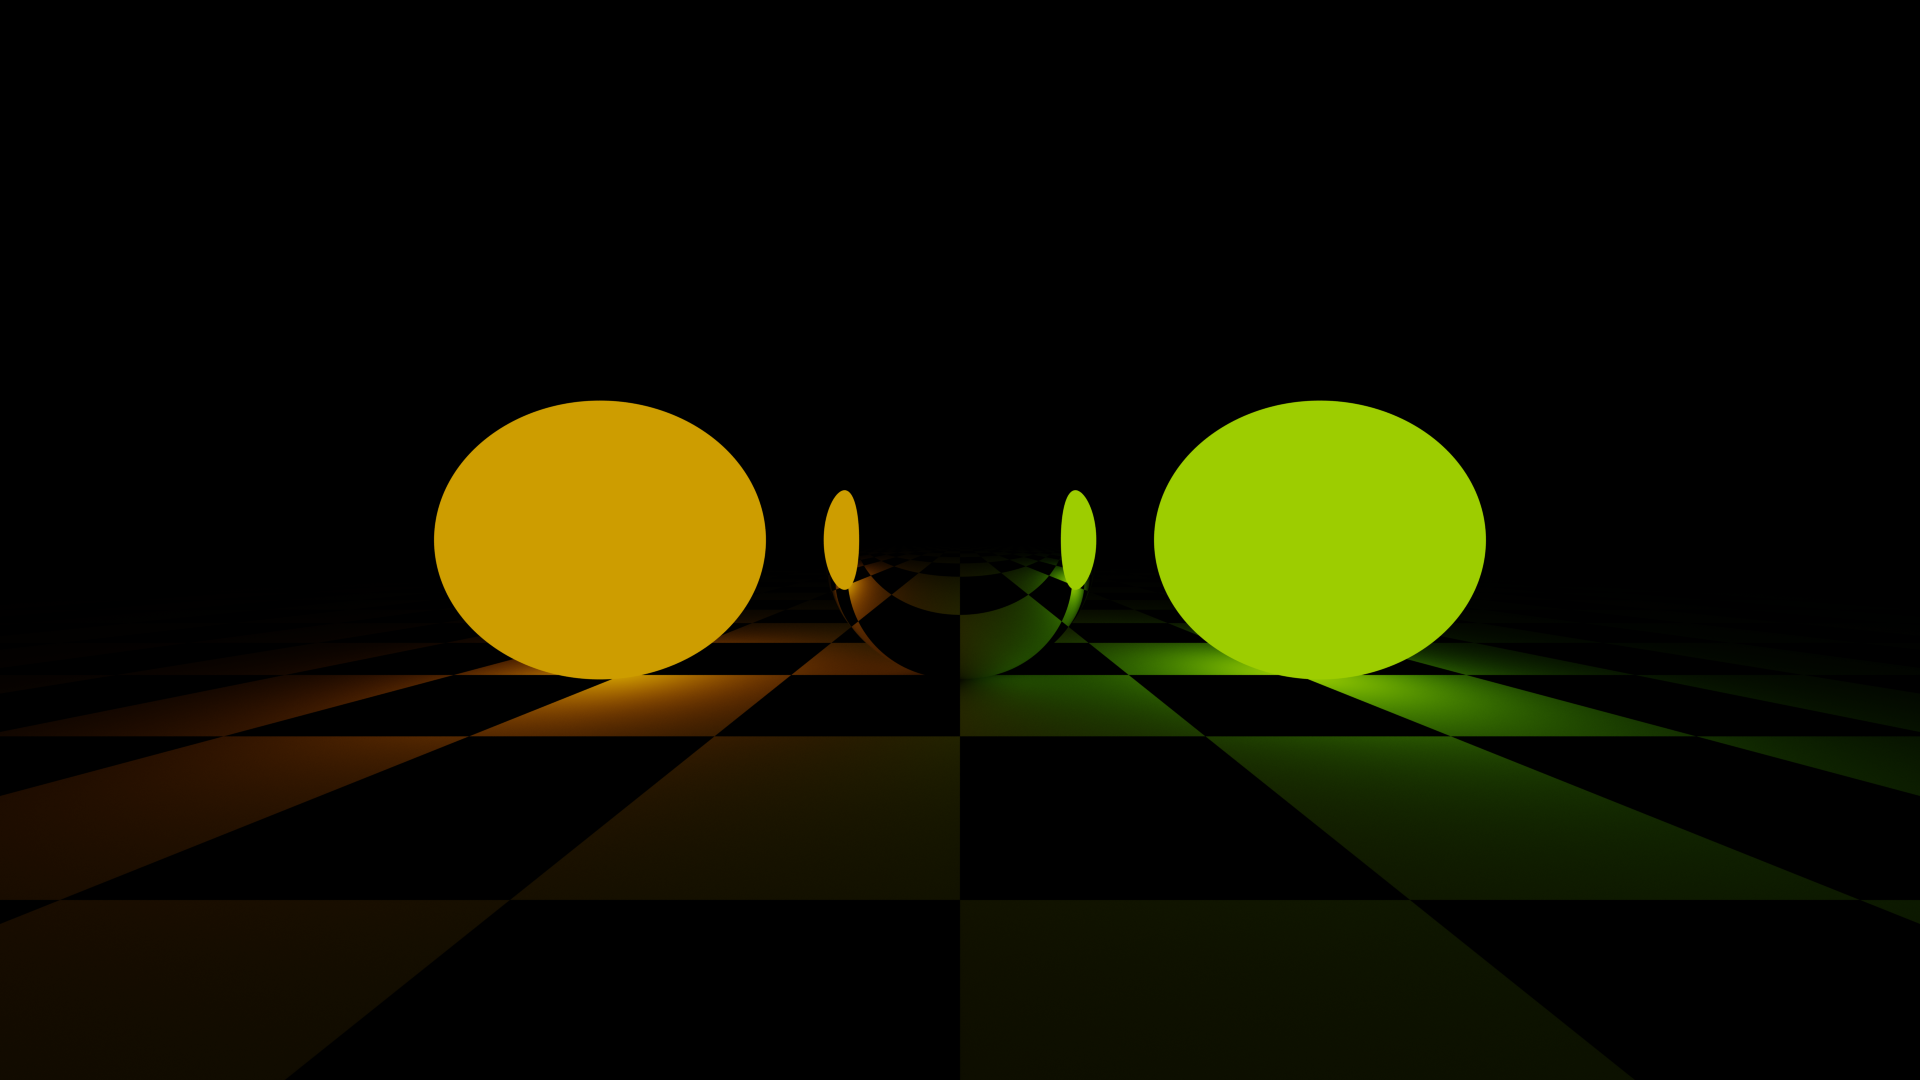
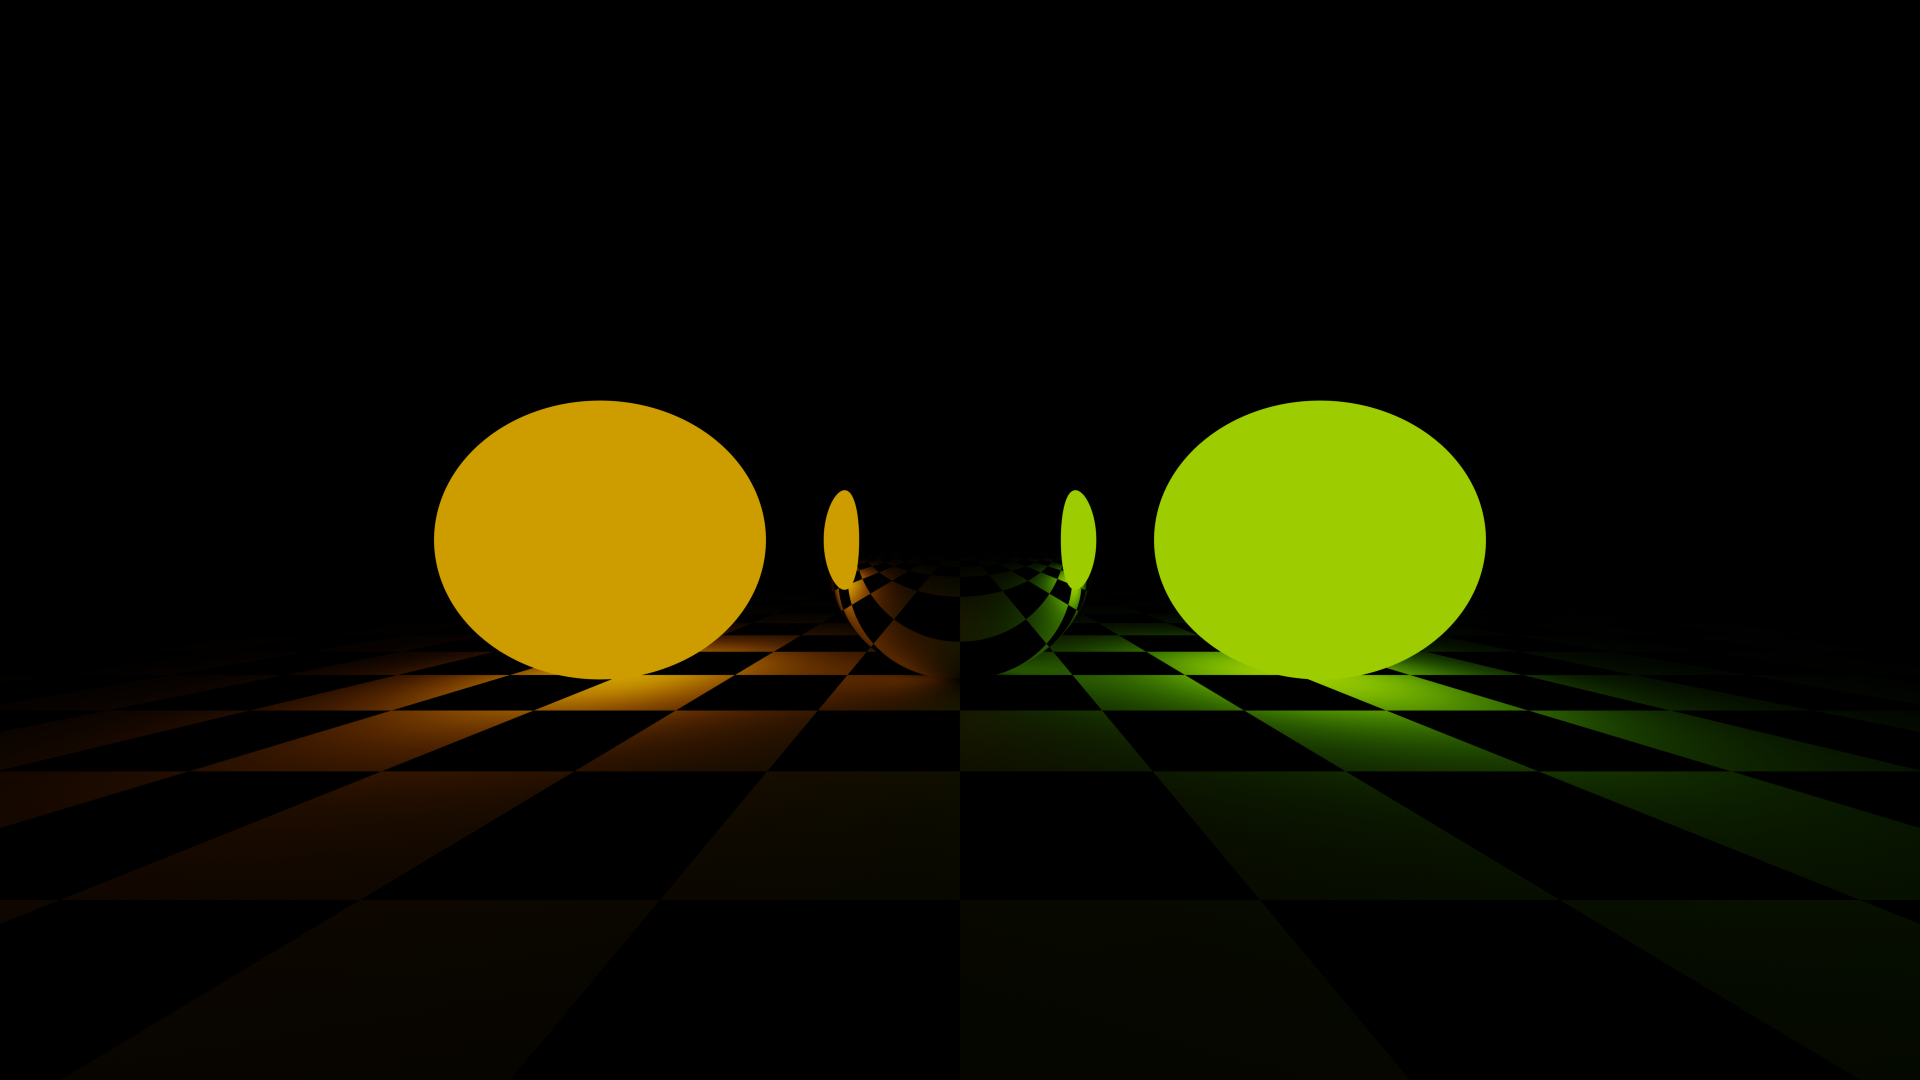
Accumulation is 50% faster

Changed region(s): [[0.0, 0.5194, 1.0, 0.8556]]

diff --git a/src/main/java/net/gavrix32/engine/graphics/Renderer.java b/src/main/java/net/gavrix32/engine/graphics/Renderer.java
@@ -10,6 +10,8 @@ import static org.lwjgl.opengl.GL15C.GL_STATIC_DRAW;
 import static org.lwjgl.opengl.GL20C.glEnableVertexAttribArray;
 import static org.lwjgl.opengl.GL20C.glVertexAttribPointer;
 import static org.lwjgl.opengl.GL30C.*;
+import static org.lwjgl.opengl.GL42C.glBindImageTexture;
+import static org.lwjgl.opengl.GL42C.glTexStorage2D;
 
 public class Renderer {
     private static final float[] VERTICES = {
@@ -23,10 +25,10 @@ public class Renderer {
             1, 2, 3
     };
     private static Shader quadShader;
-    private static int texture, frameBuffer;
     private static int accFrames = 0;
-    private static int samples = 8, bounces = 8, AASize = 0;
-    private static boolean useDenoiser = false, randNoise = false, ACESFilm = true;
+    private static int samples = 8, bounces = 4, AASize = 150;
+    private static boolean accumulation = false, randNoise = false, ACESFilm = true;
+    private static int accTexture;
 
     public static void init() {
         int vertexArray = glGenVertexArrays();
@@ -45,20 +47,11 @@ public class Renderer {
         quadShader = new Shader("shaders/main.vert", "shaders/main.frag");
         quadShader.use();
 
-        // Create texture
-        texture = glGenTextures();
-
-        // Setup texture
-        glBindTexture(GL_TEXTURE_2D, texture);
-        glTexParameteri(GL_TEXTURE_2D, GL_TEXTURE_MIN_FILTER, GL_NEAREST);
-        glTexParameteri(GL_TEXTURE_2D, GL_TEXTURE_MAG_FILTER, GL_NEAREST);
-
-        // Create framebuffer
-        frameBuffer = glGenFramebuffers();
-
-        // Setup framebuffer
-        glBindFramebuffer(GL_FRAMEBUFFER, frameBuffer);
-        glFramebufferTexture2D(GL_FRAMEBUFFER, GL_COLOR_ATTACHMENT0, GL_TEXTURE_2D, texture, 0);
+        // Accumulation
+        accTexture = glGenTextures();
+        glBindTexture(GL_TEXTURE_2D, accTexture);
+        glTexStorage2D(GL_TEXTURE_2D, 1, GL_RGBA32F, Window.getWidth(), Window.getHeight());
+        glBindTexture(GL_TEXTURE_2D, 0);
     }
 
     public static void render(Scene scene) {
@@ -89,18 +82,16 @@ public class Renderer {
             quadShader.setFloat("spheres[" + i + "].material.emission", scene.getSpheres()[i].getMaterial().getEmission());
             quadShader.setFloat("spheres[" + i + "].material.roughness", scene.getSpheres()[i].getMaterial().getRoughness());
         }
-        if (useDenoiser && accFrames > 0) {
-            glActiveTexture(GL_TEXTURE0);
-            glBindTexture(GL_TEXTURE_2D, texture);
-            glTexImage2D(GL_TEXTURE_2D, 0, GL_RGB32F, Window.getWidth(), Window.getHeight(), 0, GL_RGB, GL_UNSIGNED_BYTE, 0);
-
-            // Render to framebuffer texture
-            glBindFramebuffer(GL_FRAMEBUFFER, frameBuffer);
-            glDrawElements(GL_TRIANGLES, INDICES.length, GL_UNSIGNED_INT, 0);
+        if (accumulation) {
+            glBindImageTexture(0, accTexture, 0, false, 0, GL_READ_WRITE, GL_RGBA32F);
         }
-
-        // Render to screen
-        glBindFramebuffer(GL_FRAMEBUFFER, 0);
+        if (accFrames == 0) {
+            glDeleteTextures(accTexture);
+            accTexture = glGenTextures();
+            glBindTexture(GL_TEXTURE_2D, accTexture);
+            glTexStorage2D(GL_TEXTURE_2D, 1, GL_RGBA32F, Window.getWidth(), Window.getHeight());
+            glBindTexture(GL_TEXTURE_2D, 0);
+        }
         glDrawElements(GL_TRIANGLES, INDICES.length, GL_UNSIGNED_INT, 0);
         accFrames++;
     }
@@ -113,9 +104,9 @@ public class Renderer {
         Renderer.bounces = bounces;
     }
 
-    public static void useDenoiser(boolean value) {
+    public static void useAccumulation(boolean value) {
         if (!value) resetAccFrames();
-        useDenoiser = value;
+        accumulation = value;
     }
 
     public static void resetAccFrames() {

diff --git a/src/main/java/net/gavrix32/app/GuiRenderer.java b/src/main/java/net/gavrix32/app/GuiRenderer.java
@@ -1,0 +1,86 @@
+package net.gavrix32.app;
+
+import imgui.ImGui;
+import imgui.ImGuiIO;
+import imgui.flag.ImGuiConfigFlags;
+import imgui.gl3.ImGuiImplGl3;
+import imgui.glfw.ImGuiImplGlfw;
+import imgui.type.ImBoolean;
+import imgui.type.ImInt;
+import net.gavrix32.engine.Engine;
+import net.gavrix32.engine.Utils;
+import net.gavrix32.engine.graphics.Renderer;
+import net.gavrix32.engine.io.Sync;
+import net.gavrix32.engine.io.Window;
+
+import static org.lwjgl.glfw.GLFW.glfwGetCurrentContext;
+import static org.lwjgl.glfw.GLFW.glfwMakeContextCurrent;
+
+public class GuiRenderer {
+    private static boolean status = true;
+    private static final ImGuiImplGl3 imGuiImplGl3 = new ImGuiImplGl3();
+    private static final ImGuiImplGlfw imGuiImplGlfw = new ImGuiImplGlfw();
+
+    private static final int[]
+            samples = new int[] { 8 },
+            bounces = new int[] { 4 },
+            AASize = new int[] { 150 };
+
+    private static final ImBoolean
+            accumulation = new ImBoolean(true),
+            randNoise = new ImBoolean(false),
+            aces = new ImBoolean(true);
+
+    private static final ImInt syncType = new ImInt();
+    private static final String[] syncTypes = { "Off", "VSync", "Adaptive" };
+
+    public static void init() {
+        ImGui.createContext();
+        ImGuiIO io = ImGui.getIO();
+        io.getFonts().addFontFromMemoryTTF(Utils.loadBytes("fonts/arial.ttf"), 14);
+        imGuiImplGlfw.init(Window.get(), true);
+        imGuiImplGl3.init();
+    }
+
+    public static void update() {
+        if (status) {
+            imGuiImplGlfw.newFrame();
+            ImGui.newFrame();
+            ImGui.begin("Render");
+            ImGui.text((int) (1 / Engine.getDelta()) + " fps");
+            ImGui.text("Frametime: " + Engine.getDelta() * 1000 + " ms");
+            ImGui.combo("Sync", syncType, syncTypes);
+            switch (syncType.get()) {
+                case 0 -> Window.sync(Sync.OFF);
+                case 1 -> Window.sync(Sync.VSYNC);
+                case 2 -> Window.sync(Sync.ADAPTIVE);
+            }
+            if (ImGui.sliderInt("Samples", samples, 1, 128)) Renderer.resetAccFrames();
+            if (ImGui.sliderInt("Bounces", bounces, 1, 64)) Renderer.resetAccFrames();
+            if (ImGui.dragInt("UV Blur", AASize, 1, 0, 256000)) Renderer.resetAccFrames();
+            if (ImGui.checkbox("ACES Film", aces)) Renderer.resetAccFrames();
+            ImGui.checkbox("Accumulation", accumulation);
+            ImGui.checkbox("Random Noise", randNoise);
+            ImGui.end();
+            ImGui.render();
+            imGuiImplGl3.renderDrawData(ImGui.getDrawData());
+            if (ImGui.getIO().hasConfigFlags(ImGuiConfigFlags.ViewportsEnable)) {
+                final long backupWindowPtr = glfwGetCurrentContext();
+                ImGui.updatePlatformWindows();
+                ImGui.renderPlatformWindowsDefault();
+                glfwMakeContextCurrent(backupWindowPtr);
+            }
+            Renderer.setSamples(samples[0]);
+            Renderer.setBounces(bounces[0]);
+            Renderer.setAASize(AASize[0]);
+            Renderer.useAccumulation(accumulation.get());
+            Renderer.useRandomNoise(randNoise.get());
+            Renderer.useACESFilm(aces.get());
+        }
+
+    }
+
+    public static void toggle() {
+        status = !status;
+    }
+}

diff --git a/src/main/java/net/gavrix32/app/Main.java b/src/main/java/net/gavrix32/app/Main.java
@@ -1,36 +1,35 @@
 package net.gavrix32.app;
 
 import net.gavrix32.app.scenes.CornellBox;
+import net.gavrix32.app.scenes.RGBSpheres;
 import net.gavrix32.app.scenes.Spheres;
 import net.gavrix32.engine.Engine;
 import net.gavrix32.engine.IApplication;
 import net.gavrix32.engine.Utils;
 import net.gavrix32.engine.graphics.*;
 import net.gavrix32.engine.io.*;
-import net.gavrix32.engine.shapes.Box;
-import net.gavrix32.engine.shapes.Sphere;
 
 import java.nio.ByteBuffer;
 import java.time.LocalDateTime;
 import java.time.format.DateTimeFormatter;
 
 import static org.lwjgl.glfw.GLFW.*;
-import static org.lwjgl.opengl.GL11C.*;
-import static org.lwjgl.opengl.GL13C.*;
+import static org.lwjgl.opengl.GL46C.*;
 import static org.lwjgl.stb.STBImage.*;
 
 public class Main implements IApplication {
-
     private int texture;
     private Camera cam;
 
     @Override
     public void init() {
         Window.init("Ray Tracing", 1280, 720);
+        //GLUtil.setupDebugMessageCallback();
         glfwSetKeyCallback(Window.get(), (window, key, scancode, action, mods) -> {
-            if (key == GLFW_KEY_ESCAPE && action == GLFW_RELEASE) System.exit(0);
-            if (key == GLFW_KEY_F && action == GLFW_RELEASE) Window.toggleFullscreen();
-            if (key == GLFW_KEY_P && action == GLFW_RELEASE) {
+            if (key == GLFW_KEY_ESCAPE && action == GLFW_RELEASE) Window.close();
+            if (key == GLFW_KEY_F11 && action == GLFW_RELEASE) Window.toggleFullscreen();
+            if (key == GLFW_KEY_F1 && action == GLFW_RELEASE) GuiRenderer.toggle();
+            if (key == GLFW_KEY_F2 && action == GLFW_RELEASE) {
                 DateTimeFormatter dtf = DateTimeFormatter.ofPattern("yyyy-MM-dd_HH.mm.ss");
                 LocalDateTime now = LocalDateTime.now();
                 Utils.takeScreenshot("screenshots/" + dtf.format(now) + ".png");
@@ -40,9 +39,10 @@ public class Main implements IApplication {
             if (button == GLFW_MOUSE_BUTTON_2 && action == GLFW_RELEASE) Window.toggleCursor();
         });
         CornellBox.scene.getCamera().setPos(50, 50, -120);
+        RGBSpheres.scene.getCamera().setPos(50, 20, -80);
         Spheres.scene.getCamera().setPos(50, 20, -80);
         Renderer.init();
-        RendererGui.init();
+        GuiRenderer.init();
 
         // Skybox
         texture = glGenTextures();
@@ -65,8 +65,8 @@ public class Main implements IApplication {
             glTexImage2D(GL_TEXTURE_CUBE_MAP_POSITIVE_X + i, 0, GL_RGB, width[0], height[0], 0, GL_RGB, GL_UNSIGNED_BYTE, data);
         }
 
-        cam = new Camera();
-        cam.setPos(0, 200, -200);
+        // cam = new Camera();
+        // cam.setPos(0, 200, -200);
     }
 
     @Override
@@ -75,7 +75,7 @@ public class Main implements IApplication {
         Renderer.render(CornellBox.scene);
         /*Controls.update(cam);
         Renderer.render(new Scene(cam, new Sphere[0], new Box[0]));*/
-        RendererGui.update();
+        GuiRenderer.update();
         Window.update();
     }
 

diff --git a/src/main/java/net/gavrix32/app/scenes/RGBSpheres.java b/src/main/java/net/gavrix32/app/scenes/RGBSpheres.java
@@ -1,0 +1,20 @@
+package net.gavrix32.app.scenes;
+
+import net.gavrix32.engine.graphics.Camera;
+import net.gavrix32.engine.graphics.Material;
+import net.gavrix32.engine.graphics.Scene;
+import net.gavrix32.engine.math.Vector3f;
+import net.gavrix32.engine.shapes.Box;
+import net.gavrix32.engine.shapes.Sphere;
+
+public class RGBSpheres {
+    public static Scene scene = new Scene(
+            new Camera(),
+            new Sphere[] {
+                    new Sphere(new Vector3f(0, 20, 0), new Vector3f(1, 0, 0), new Material(1, 0), 20),
+                    new Sphere(new Vector3f(50, 20, 0), new Vector3f(0, 1, 0), new Material(1, 0), 20),
+                    new Sphere(new Vector3f(100, 20, 0), new Vector3f(0, 0, 1), new Material(1, 0), 20)
+            },
+            new Box[] {}
+    );
+}

diff --git a/src/main/java/net/gavrix32/engine/Engine.java b/src/main/java/net/gavrix32/engine/Engine.java
@@ -2,7 +2,7 @@ package net.gavrix32.engine;
 
 import net.gavrix32.engine.io.Window;
 
-import static org.lwjgl.glfw.GLFW.glfwGetTime;
+import static org.lwjgl.glfw.GLFW.*;
 
 public class Engine {
     private static float dt;
@@ -14,6 +14,8 @@ public class Engine {
             app.update();
             dt = (float) (glfwGetTime() - last);
         }
+        glfwTerminate();
+        System.exit(0);
     }
 
     public static float getDelta() {

diff --git a/src/main/java/net/gavrix32/engine/io/Window.java b/src/main/java/net/gavrix32/engine/io/Window.java
@@ -53,6 +53,10 @@ public class Window {
         return glfwWindowShouldClose(window);
     }
 
+    public static void close() {
+        glfwSetWindowShouldClose(window, true);
+    }
+
     public static void toggleCursor() {
         cursorVisible = !cursorVisible;
         glfwSetInputMode(window, GLFW_CURSOR, cursorVisible ? GLFW_CURSOR_NORMAL : GLFW_CURSOR_DISABLED);
